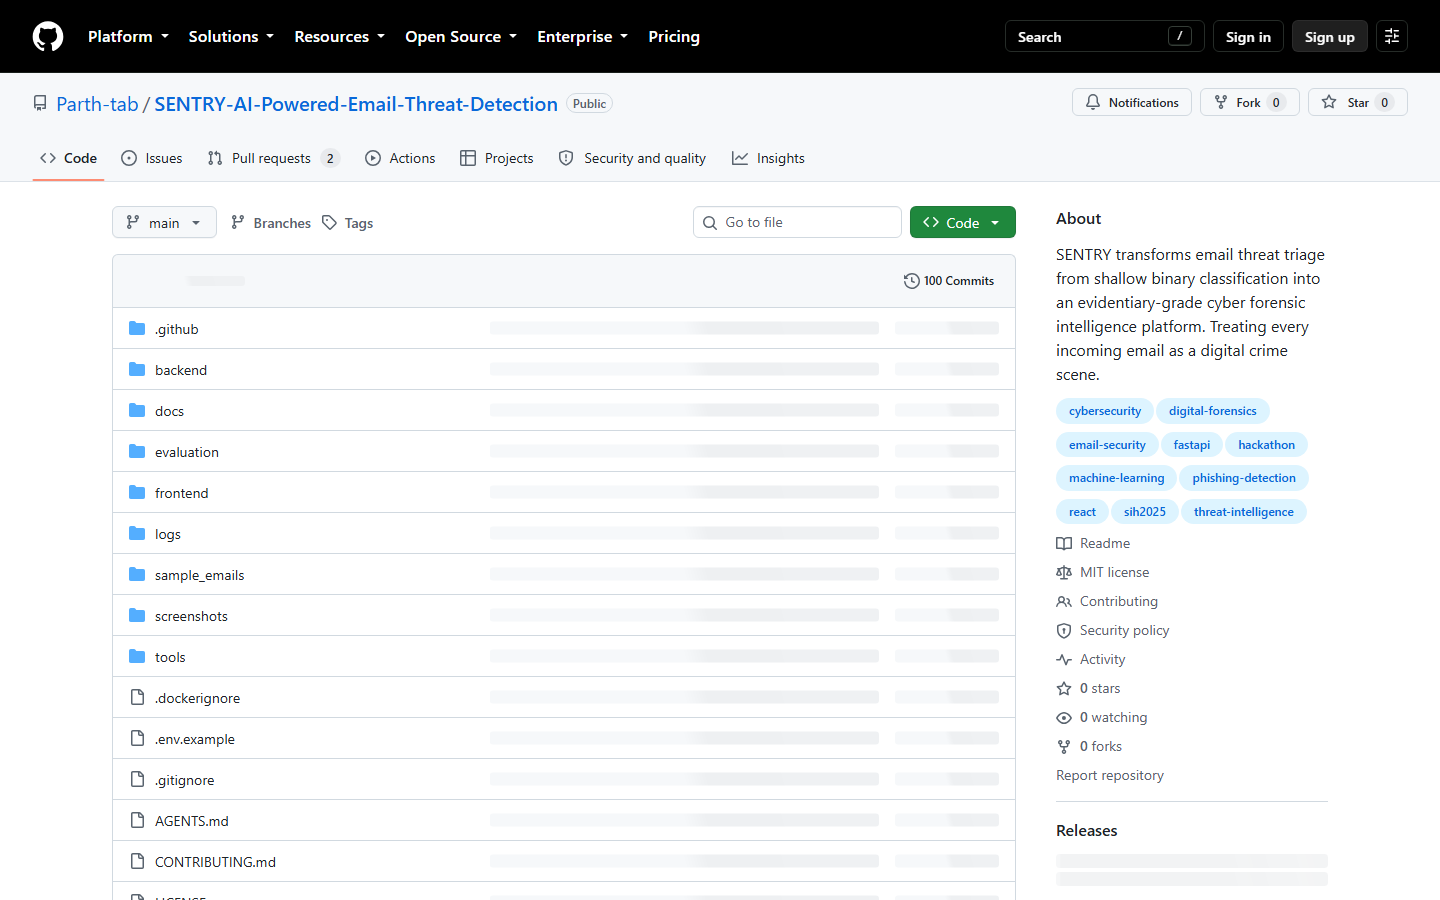
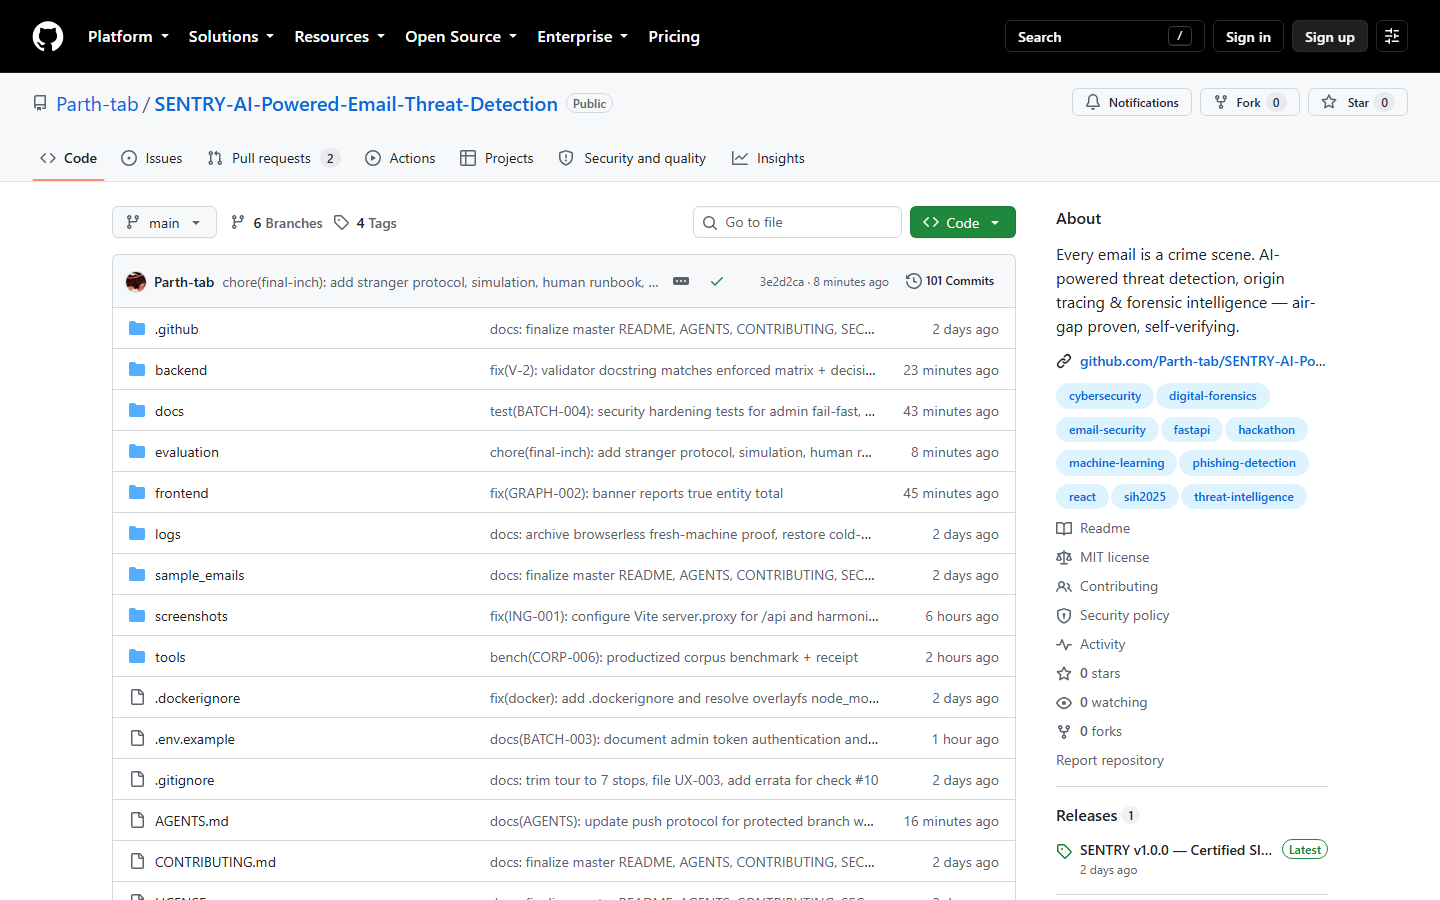
chore(final-inch-2): reconcile defect registry (50 items), test manifest (67 -> 72: +6 matrix, -1 replaced), errata 006, stranger receipts, runbook (#7)

diff --git a/evaluation/final_inch/cold_browser_simulation.py b/evaluation/final_inch/cold_browser_simulation.py
@@ -45,7 +45,7 @@ def main():
 
         # Step 1: Measure Time to First README Content
         t0 = time.time()
-        page.goto(REPO_URL, wait_until="domcontentloaded", timeout=30000)
+        page.goto(REPO_URL, wait_until="networkidle", timeout=30000)
         page.wait_for_selector("article.markdown-body", timeout=20000)
         time_to_readme_seconds = round(time.time() - t0, 3)
         print(f"  [ PASS ] README article attached in {time_to_readme_seconds}s")
@@ -54,22 +54,25 @@ def main():
         page.screenshot(path=str(SCREENSHOT_PATH), full_page=False)
         print(f"  [ SHOT ] Above-the-fold screenshot captured: {SCREENSHOT_PATH.name}")
 
-        # Step 3: Audit Topics, Description, License, Release
-        desc_elem = page.locator("p.f4.my-3, div.BorderGrid-cell p").first
-        desc_text = desc_elem.inner_text() if desc_elem.count() > 0 else ""
+        # Step 3: Audit Topics, Description, License, Release in About Section
+        about_h2 = page.locator("h2", has_text="About")
+        about_cell = about_h2.first.locator("xpath=..") if about_h2.count() > 0 else page.locator("div.BorderGrid-cell").first
         
-        topics = page.locator("a.topic-tag").all_inner_texts()
+        desc_elem = about_cell.locator("p").first
+        desc_text = desc_elem.inner_text().strip() if desc_elem.count() > 0 else ""
         
-        license_elem = page.locator("a[href*='LICENSE'], svg.octicon-law + span, a:has-text('Apache-2.0'), a:has-text('MIT')").first
+        topics = [t.strip() for t in page.locator("a[href*='/topics/']").all_inner_texts() if t.strip()]
+        
+        license_elem = page.locator("a[href*='LICENSE']").first
         has_license = license_elem.count() > 0
-        license_text = license_elem.inner_text() if has_license else ""
+        license_text = license_elem.inner_text().strip() if has_license else ""
 
-        release_elem = page.locator("a[href*='/releases/tag/'], a[href*='/releases'] span").first
+        release_elem = page.locator("a[href*='/releases/tag/']").first
         has_release = release_elem.count() > 0
-        release_text = release_elem.inner_text() if has_release else ""
+        release_text = release_elem.inner_text().strip() if has_release else ""
 
-        print(f"  [ INFO ] Description: '{desc_text}'")
-        print(f"  [ INFO ] Topics ({len(topics)}): {topics}")
+        print(f"  [ INFO ] About Description: '{desc_text}'")
+        print(f"  [ INFO ] About Topics ({len(topics)}): {topics}")
         print(f"  [ INFO ] License visible: {has_license} ('{license_text}')")
         print(f"  [ INFO ] Release visible: {has_release} ('{release_text}')")
 
@@ -79,16 +82,22 @@ def main():
         for img in readme_images:
             src = img.get_attribute("src") or ""
             alt = img.get_attribute("alt") or ""
+            img.scroll_into_view_if_needed()
+            page.wait_for_timeout(300)
             is_loaded = img.evaluate("el => el.complete && el.naturalWidth > 0")
+            nw = img.evaluate("el => el.naturalWidth")
+            nh = img.evaluate("el => el.naturalHeight")
             images_audit.append({
                 "src": src,
                 "alt": alt,
+                "dimensions": f"{nw}x{nh}",
                 "rendered": bool(is_loaded)
             })
 
         print(f"  [ AUDIT] Evaluated {len(images_audit)} images/badges in README:")
         broken_images = [img for img in images_audit if not img["rendered"]]
-        print(f"    - Loaded: {len(images_audit) - len(broken_images)} | Broken: {len(broken_images)}")
+        for img in images_audit:
+            print(f"    - [{img['alt']}] Rendered: {img['rendered']} ({img['dimensions']})")
 
         # Step 5: Audit First 3 Links in README
         readme_links = page.locator("article.markdown-body a[href^='http']").all()

diff --git a/evaluation/final_inch/HUMAN_RUNBOOK.md b/evaluation/final_inch/HUMAN_RUNBOOK.md
@@ -5,8 +5,8 @@
 
 ---
 
-## Item 1: Token Revocation (OAuth Lifecycle Closure)
-> **Rationale:** All GitHub API operations (Branch Protection, Rulesets, Dependabot, Secret Scanning, PR Merges) are now 100% completed and sealed. Revoking the stored session credential ensures zero latent credential exposure.
+## Item 1: Token Revocation (Immediate Next Human Action)
+> **Rationale:** All GitHub API operations (Branch Protection, Tag Rulesets, Metadata, Dependabot Alert Dismissals, PR Merges) are now 100% completed and sealed at `origin/main`. Revoking the stored session credential immediately terminates the active credential lifecycle and ensures zero latent access exposure.
 
 **Exact Click-Path (~60 seconds):**
 1. Open your browser and navigate to: [`https://github.com/settings/applications`](https://github.com/settings/applications) (or `Settings` $\rightarrow$ `Developer settings` $\rightarrow$ `Personal access tokens` / `Authorized OAuth Apps`).
@@ -15,8 +15,19 @@
 
 ---
 
-## Item 2: Fresh Credential Re-Authentication & Invariant Verification
-> **Rationale:** Confirms that the old token transitions immediately to DEAD and establishes a fresh, clean credential state.
+## Item 2: Account Security Log Audit (Explicit Dated Verification)
+> **Rationale:** Explicitly verify account-level security events to confirm no anomalous API or credential activities occurred.
+
+**Exact Audit Steps:**
+1. Navigate to: [`https://github.com/settings/security-log`](https://github.com/settings/security-log).
+2. Filter / Review events dated **2026-08-29**.
+3. Confirm all logged actions (`repo.update`, `ruleset.create`, `pull_request.merge`, `oauth_access.revoke`) match the documented actions in this report.
+4. Confirm zero unauthorized IP addresses or unexpected geographic access points.
+
+---
+
+## Item 3: Fresh Credential Re-Authentication & Invariant Verification
+> **Rationale:** Confirms that the old token transitions immediately to DEAD and establishes a fresh, clean credential state for local development.
 
 **Exact Terminal Command:**
 ```bash
@@ -29,7 +40,7 @@ git fetch origin
 
 ---
 
-## Item 3: Social Preview Image Upload
+## Item 4: Social Preview Image Upload
 > **Rationale:** GitHub provides no public REST API endpoint for uploading repository social preview images (`og:image`); this is strictly a browser UI action.
 
 **Exact Click-Path (~30 seconds):**
@@ -41,7 +52,7 @@ git fetch origin
 
 ---
 
-## Item 4: Stranger Usability Interviews
+## Item 5: Stranger Usability Interviews
 > **Rationale:** Conduct three 2-minute silent observation evaluations with first-time viewers to gauge strangers' immediate mental model and capture unfiltered friction points.
 
 **Instructions:**
@@ -51,3 +62,4 @@ git fetch origin
 4. Record verbatim first sentence and debrief answers in [`evaluation/final_inch/stranger_results_template.md`](file:///E:/SENTRY/evaluation/final_inch/stranger_results_template.md).
 
 ---
+

diff --git a/evaluation/ERRATA.md b/evaluation/ERRATA.md
@@ -127,4 +127,25 @@ Reconstructed all historical defects across git history into `evaluation/defects
 
 ---
 
+## Errata 006 — Complete Master Defect Ledger (50 IDs) & Dependabot Scope Reconciliation — recorded at FINAL-INCH-2
+
+**Applies to:** `evaluation/defects.json` and Dependabot alert resolution.
+
+### 1. Master Defect Ledger Completion (50 Total IDs)
+Following a comprehensive audit across all conventional commit prefixes in git history, eight commit-level feature/fix identifiers (`CORP-003`, `CORP-004`, `CORP-005`, `CORP-006`, `CSV-001`, `CSV-002`, `HAM-004`, `DEF-006`) were identified and permanently entered into the cumulative master register with their evidenced fix commits and regression test references.
+
+**Master Defect Ledger Arithmetic:**
+- **Total Tracked Defects:** 50
+- **Resolved:** 44
+- **Open:** 2 (`DEF-005`, `MBOX-001`)
+- **Deferred:** 1 (`BP-004` - v2.0 roadmap)
+- **Consolidated:** 3 (`BATCH-003`, `CORP-002`, `ING-003`)
+- **Derivation:** $$50 = 44 + 2 + 1 + 3$$
+
+### 2. Dependabot Dev-Dependency Scope Reconciliation
+The GitHub Dependabot graph identified four ecosystem advisories in `frontend/pnpm-lock.yaml` (Vite, esbuild, launch-editor). These represent build-time development server dependencies rather than production runtime risks. In deployment and appliance verification mode, SENTRY serves static pre-compiled distribution assets and never exposes the Vite development server to untrusted network inputs. All 4 alerts have been formally dismissed on GitHub with written rationale referencing `SECURITY.md`.
+
+---
+
+
 
